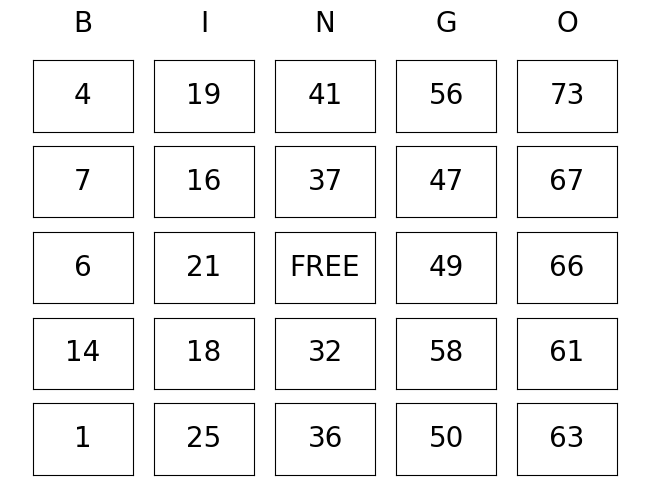
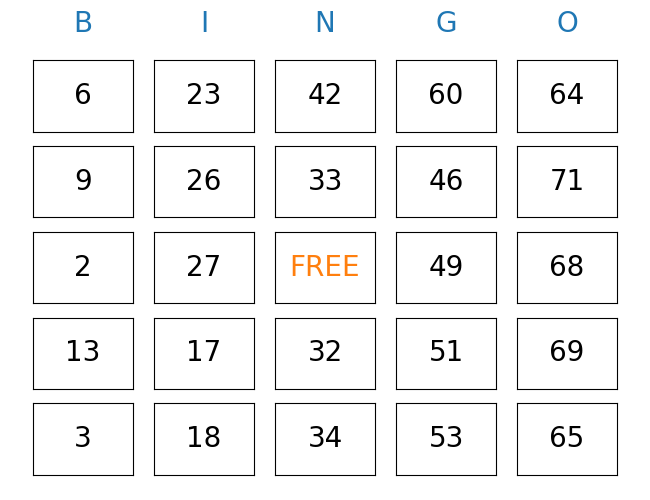
Update colors

diff --git a/bingo_board.py b/bingo_board.py
@@ -2,10 +2,10 @@ import matplotlib.pyplot as plt
 import random
 
 
-def make_one_board(fig_name):
+def make_one_board(fig_name, fig_num=1):
     bingo = 'BINGO'
     kwargs = dict(xycoords='axes fraction', ha='center', va='center',size=20)
-    fig = plt.figure(1, (6.5, 5.0))
+    fig = plt.figure(fig_num, (6.5, 5.0))
     vals = {
         0: list(range(1, 16)),
         1: list(range(16, 31)),
@@ -17,21 +17,23 @@ def make_one_board(fig_name):
         ax = fig.add_subplot(5, 5, i+1)
         col, row = i % 5, i // 5
         if row == 0:
-            ax.annotate(bingo[col], xy=(0.5, 1.5), **kwargs)
+            ax.annotate(bingo[col], color='C0', xy=(0.5, 1.5), **kwargs)
         index = random.randint(0, len(vals[col])-1)
         val = vals[col].pop(index)
         if row == 2 and col == 2:
-            ax.annotate('FREE', xy=(0.5, 0.5), **kwargs)
+            ax.annotate('FREE', color='C1', xy=(0.5, 0.5), **kwargs)
         else:
             ax.annotate('%i' % val, xy=(0.5, 0.5), **kwargs)
-
 
         plt.setp(ax.get_xticklabels(), visible=False)
         plt.setp(ax.get_yticklabels(), visible=False)
         ax.tick_params(which='both', length=0.)
     plt.subplots_adjust(left=0.05, right=0.95,bottom=0.05)
     fig.savefig(fig_name)
+    plt.close(fig)
 
 
 if __name__ == '__main__':
     make_one_board('default')
+    # for card in range(100):
+    #     make_one_board('card_%i.pdf' % card, card+1)
